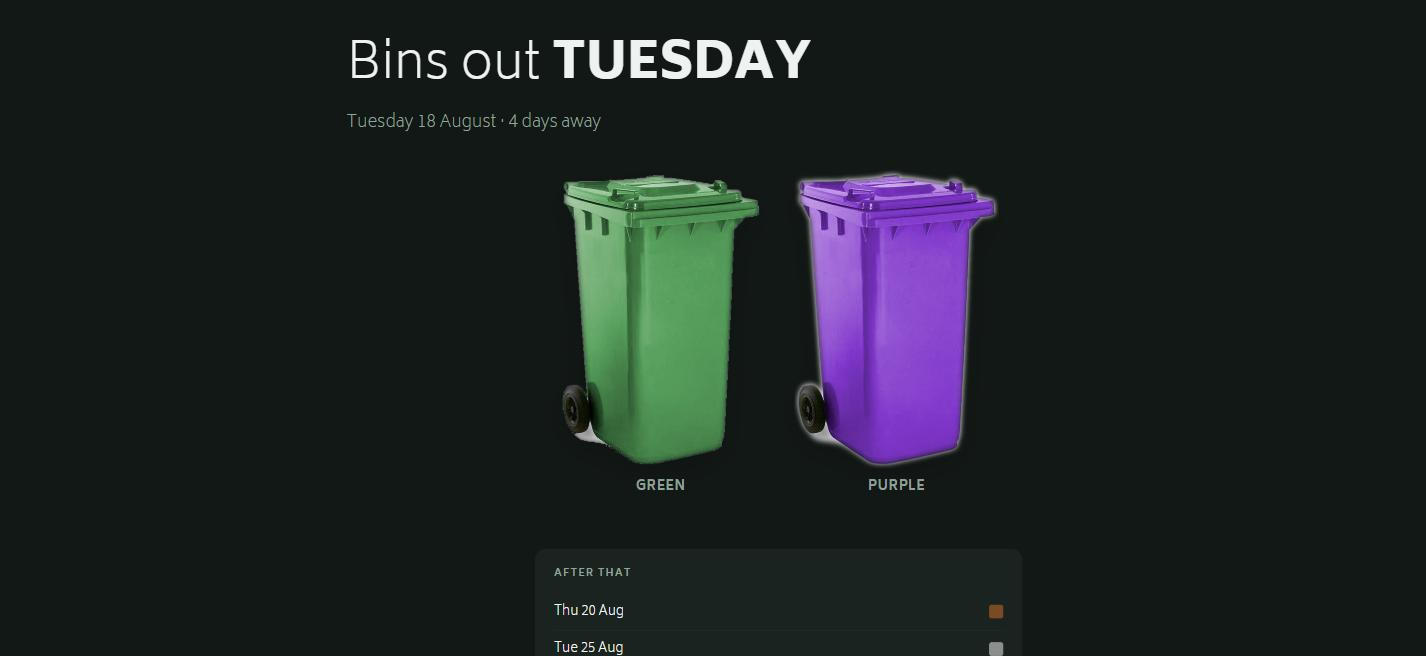
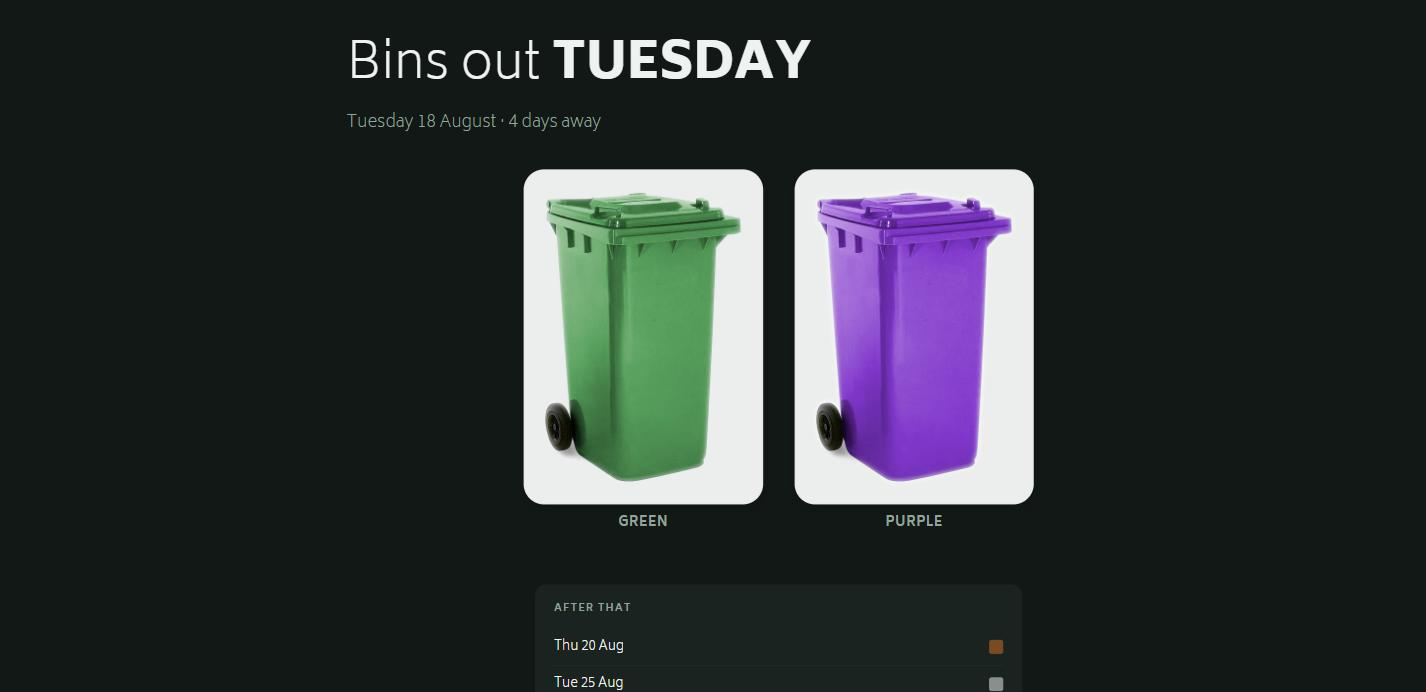
#1 Changed bins to tiles to mask white antialiasing and added ico.

diff --git a/index.php b/index.php
@@ -296,6 +296,7 @@ function e($s) { return htmlspecialchars((string) $s, ENT_QUOTES, 'UTF-8'); }
 <meta http-equiv="refresh" content="<?= REFRESH ?>">
 <?php endif; ?>
 <meta name="theme-color" content="#00806a">
+<link rel="icon" href="bin.ico" sizes="16x16 24x24 32x32 48x48 64x64 128x128 256x256">
 <title><?= $dayMessage ? 'Bins out ' . e($dayMessage) : 'Bin collection' ?></title>
 <link rel="preconnect" href="https://fonts.googleapis.com">
 <link rel="preconnect" href="https://fonts.gstatic.com" crossorigin>
@@ -359,11 +360,24 @@ function e($s) { return htmlspecialchars((string) $s, ENT_QUOTES, 'UTF-8'); }
     flex: 0 1 auto;
   }
 
+  .bins figure { margin: 0; }
+
+  /* The bin photos were shot on white, so they sit on a light tile rather than
+     directly on the page background. Keeps the edges clean in dark mode too. */
+  .bin-tile {
+    display: flex;
+    align-items: flex-end;
+    justify-content: center;
+    background: #e7e7e7;
+    border-radius: clamp(14px, 3vw, 26px);
+    padding: clamp(.6rem, 2.2vw, 1.4rem);
+    box-shadow: inset 0 0 0 1px rgba(0,0,0,.04), 0 6px 16px rgba(0,0,0,.10);
+  }
+
   .bins img {
     display: block;
     width: clamp(110px, 26vw, 260px);
     height: auto;
-    filter: drop-shadow(0 12px 18px rgba(0,0,0,.16));
   }
 
   .bins figcaption {
@@ -480,8 +494,10 @@ function e($s) { return htmlspecialchars((string) $s, ENT_QUOTES, 'UTF-8'); }
   <ul class="bins">
     <?php foreach ($nextBins as $bin): ?>
       <li>
-        <figure style="margin:0">
-          <img src="<?= e(IMG_DIR . '/' . BINS[$bin]) ?>" alt="<?= e($bin) ?> bin" loading="lazy">
+        <figure>
+          <span class="bin-tile">
+            <img src="<?= e(IMG_DIR . '/' . BINS[$bin]) ?>" alt="<?= e($bin) ?> bin" loading="lazy">
+          </span>
           <figcaption><?= e($bin) ?></figcaption>
         </figure>
       </li>
